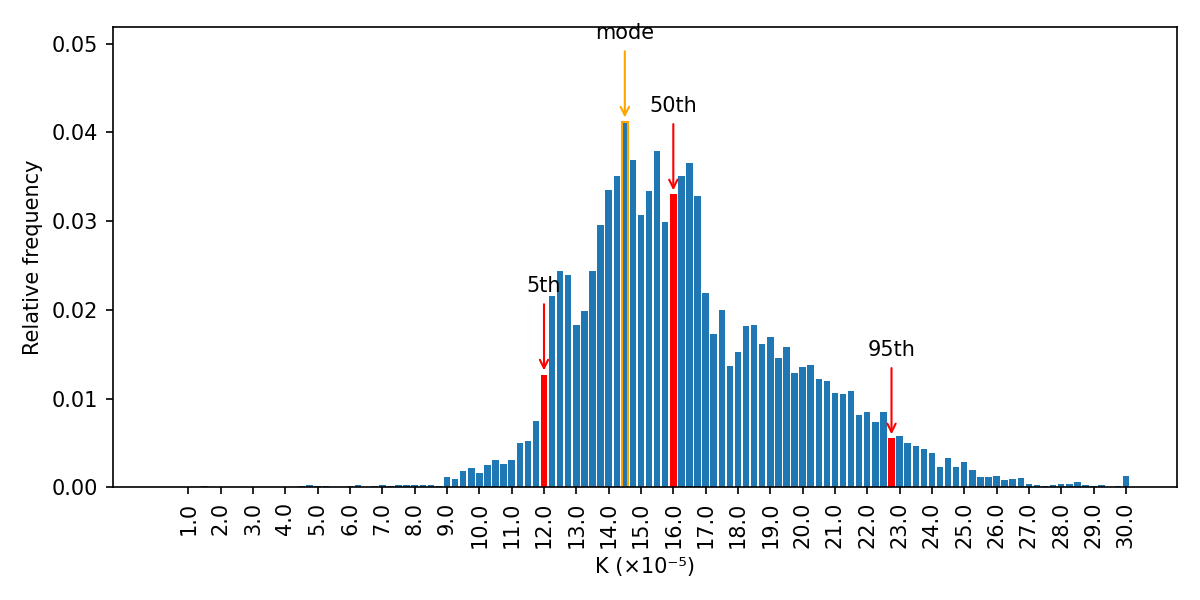
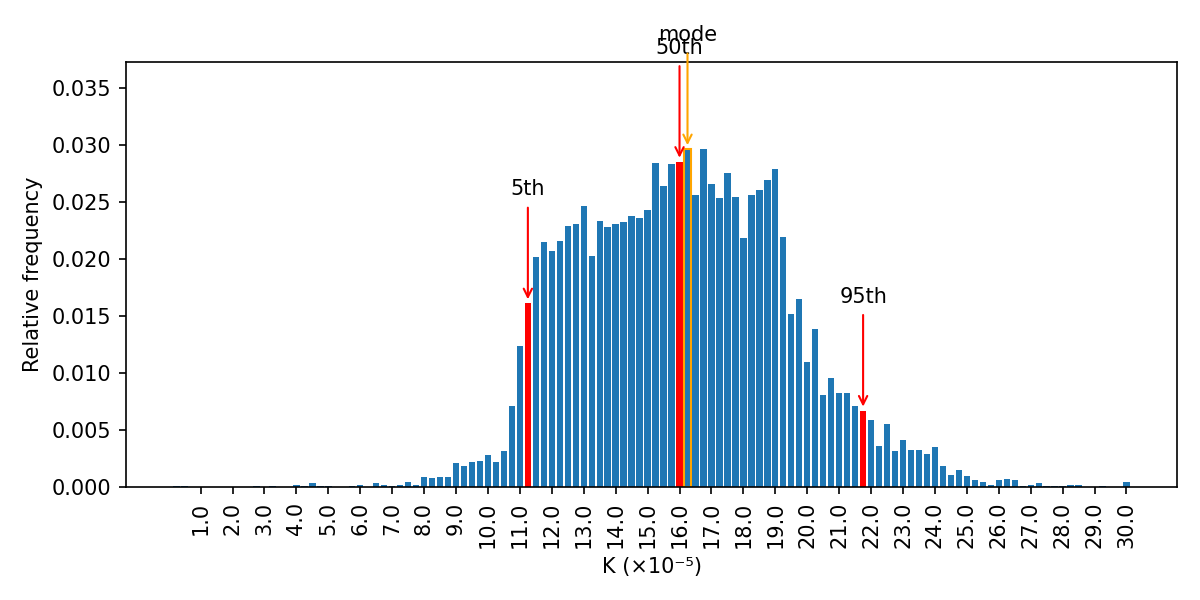
updated Kmode with dT correction

diff --git a/init/BMB_tuning_python/run_parameter_selection.py b/init/BMB_tuning_python/run_parameter_selection.py
@@ -242,12 +242,12 @@ for label, K in K_compare.items():
         'Diff (Gt/a)':     round(mod_total - obs_total),
     })
 df_ais = pd.DataFrame(rows, index=K_compare.keys())
-print('\nAIS-wide melt (Term 1 — Paolo/Adusumilli):')
+print('\nAIS-wide melt (Term 1 — Paolo/Davison/Adusumilli):')
 print(df_ais.to_string())
 
 out_ais = os.path.join(figure_dir, 'parameter_selection_AIS_summary.txt')
 with open(out_ais, 'w') as f:
-    f.write('AIS-wide melt (Term 1 — Paolo/Adusumilli)\n')
+    f.write('AIS-wide melt (Term 1 — Paolo/Davison/Adusumilli)\n')
     f.write(df_ais.to_string())
     f.write('\n')
 print(f'Saved: {out_ais}')
@@ -283,49 +283,88 @@ with open(out_t1, 'w') as f:
     f.write('\n')
 print(f'Saved: {out_t1}')
 
-# ---- validation figure
-fig, axes = plt.subplots(2, 2, figsize=(14, 9), constrained_layout=True)
+# ---- validation figure: one panel per term
+# band = K_5th..K_95th envelope, solid line = K_50th (median), dashed = K_mode
+band_color = '#2166AC'
+mode_color = 'orange'
 
-# [0,0] Term 1: modelled vs observed per basin
-ax = axes[0, 0]
-ax.errorbar(basins_x, t1_obs_mean, yerr=t1_obs_sigma,
-            fmt='o', color='black', capsize=4, label='Observed', zorder=5)
-for label, K in K_compare.items():
-    mod = t1_model.isel(p2=0).sel(p1=K, method='nearest')
-    ax.plot(basins_x, mod.values, label=f'K {label} ({K:.2e})', color=clrs[label])
-ax.set_xlabel('Basin')
-ax.set_ylabel('Melt rate (Gt/a)')
-ax.set_title('Term 1: basin-integrated melt vs Paolo/Adusumilli')
-ax.legend(fontsize=8)
 
-# [0,1] Term 1: difference (model − obs) per basin
-ax = axes[0, 1]
-ax.axhline(0, color='black', linewidth=0.8, linestyle='--')
-for label, K in K_compare.items():
-    mod = t1_model.isel(p2=0).sel(p1=K, method='nearest')
-    ax.plot(basins_x, mod.values - t1_obs_mean, label=f'K {label}', color=clrs[label])
-ax.set_xlabel('Basin')
-ax.set_ylabel('Model − observed (Gt/a)')
-ax.set_title('Term 1: bias per basin')
-ax.legend(fontsize=8)
+def _band_median_mode(model_da):
+    """K_5th/K_50th/K_95th/K_mode slices of a (..., p1, p2) DataArray."""
+    med  = model_da.isel(p2=0).sel(p1=K_50th, method='nearest').values
+    p05  = model_da.isel(p2=0).sel(p1=K_5th,  method='nearest').values
+    p95  = model_da.isel(p2=0).sel(p1=K_95th, method='nearest').values
+    mode = model_da.isel(p2=0).sel(p1=K_mode, method='nearest').values
+    return med, p05, p95, mode
 
-# [1,0] and [1,1] Term 3: warm−cold anomaly per basin for each ocean model
-for col, om in enumerate(['mathiot', 'naughten_ais_1']):
-    om_title = {'mathiot': 'Mathiot NEMO', 'naughten_ais_1': 'Naughten FESOM-ACCESS'}[om]
-    ax = axes[1, col]
-    obs3 = t3_obs_mean.sel(model=om)
-    sig3 = t3_obs_sigma.sel(model=om)
-    basins3 = obs3.basins.values
-    ax.errorbar(basins3, obs3.values, yerr=sig3.values,
-                fmt='o', color='black', capsize=4, label='Target', zorder=5)
-    for label, K in K_compare.items():
-        mod3 = t3_model.isel(p2=0).sel(p1=K, method='nearest').sel(model=om)
-        ax.plot(basins3, mod3.values, label=f'K {label}', color=clrs[label])
-    ax.axhline(0, color='grey', linewidth=0.5, linestyle='--')
-    ax.set_xlabel('Basin')
-    ax.set_ylabel('Warm − cold melt (kg m⁻² yr⁻¹)')
-    ax.set_title(f'Term 3: {om_title}')
+
+def _plot_term(ax, x, obs, sig, model_da, xlabel, ylabel, title):
+    med, p05, p95, mode = _band_median_mode(model_da)
+    ax.fill_between(x, p05, p95, color=band_color, alpha=0.3, label='5th–95th')
+    ax.plot(x, med, color=band_color, label='median')
+    ax.plot(x, mode, color=mode_color, linestyle='--', label='mode')
+    ax.errorbar(x, obs, yerr=sig, fmt='o', color='black', capsize=4,
+                label='Target', zorder=5)
+    ax.set_xlabel(xlabel)
+    ax.set_ylabel(ylabel)
+    ax.set_title(title)
     ax.legend(fontsize=8)
+
+
+fig, axes = plt.subplots(2, 2, figsize=(12, 10), constrained_layout=True)
+
+# [0,0] Term 1: basin-integrated melt
+_plot_term(
+    axes[0, 0], basins_x, t1_obs_mean, t1_obs_sigma, t1_model,
+    'Basin', 'Melt rate (Gt/a)',
+    'Term 1: basin-integrated melt vs Paolo/Davison/Adusumilli',
+)
+
+# [0,1] Term 2: buttressing-bin melt
+bins2 = t2_obs_mean.BFRN_bins.values
+_plot_term(
+    axes[0, 1], bins2, t2_obs_mean.values, t2_obs_sigma.values, t2_model,
+    'BFRN bin', 'Melt rate (Gt/a)',
+    'Term 2: buttressing-bin melt vs target',
+)
+
+# [1,0] Term 3: warm−cold anomaly, model+basin stacked (only Mathiot and
+# Naughten AIS-1 are weighted in the objective function, see t3_weights above)
+t3_sel = (
+    t3_model.sel(model=['mathiot', 'naughten_ais_1'])
+    .stack(modelbasin=('model', 'basins'))
+    .dropna(dim='modelbasin')
+)
+obs3 = t3_obs_mean.sel(model=['mathiot', 'naughten_ais_1']).stack(
+    modelbasin=('model', 'basins')).sel(modelbasin=t3_sel.modelbasin)
+sig3 = t3_obs_sigma.sel(model=['mathiot', 'naughten_ais_1']).stack(
+    modelbasin=('model', 'basins')).sel(modelbasin=t3_sel.modelbasin)
+x3 = np.arange(len(t3_sel.modelbasin))
+_plot_term(
+    axes[1, 0], x3, obs3.values, sig3.values, t3_sel,
+    None, 'Warm − cold melt (kg m⁻² yr⁻¹)',
+    'Term 3: warm − cold anomaly (Mathiot, Naughten)',
+)
+axes[1, 0].axhline(0, color='grey', linewidth=0.5, linestyle='--')
+axes[1, 0].set_xticks(x3)
+axes[1, 0].set_xticklabels(
+    [f'{m}-{b}' for m, b in t3_sel.modelbasin.values], rotation=90, fontsize=7)
+
+# [1,1] Term 4: PIG/Dotson observed years, region+year stacked
+t4_sel = t4_model.stack(region_year=('region', 'year')).dropna(dim='region_year')
+obs4 = t4_obs_mean.stack(region_year=('region', 'year')).sel(
+    region_year=t4_sel.region_year)
+sig4 = t4_obs_sigma.stack(region_year=('region', 'year')).sel(
+    region_year=t4_sel.region_year)
+x4 = np.arange(len(t4_sel.region_year))
+_plot_term(
+    axes[1, 1], x4, obs4.values, sig4.values, t4_sel,
+    None, 'Melt rate (Gt/a)',
+    'Term 4: PIG/Dotson observed-year melt vs target',
+)
+axes[1, 1].set_xticks(x4)
+axes[1, 1].set_xticklabels(
+    [f'{r}-{y}' for r, y in t4_sel.region_year.values], rotation=90, fontsize=8)
 
 out_val = os.path.join(figure_dir, 'parameter_selection_validation.png')
 fig.savefig(out_val, dpi=150)
@@ -340,4 +379,4 @@ savemat(K_mat, {
     'K_50th': K_50th,
     'K_95th': K_95th,
 })
-print(f'Saved: {K_mat}  (run meltMip_ensemble step 11 to write gamma0_local.mat)')
+print(f'Saved: {K_mat}  (run meltMip_ensemble step 16 to write gamma0_local.mat)')

diff --git a/init/scripts/calc_basin_mean_melt.m b/init/scripts/calc_basin_mean_melt.m
@@ -1,0 +1,53 @@
+function [melt_basin_kgm2a, unique_basins, total_bmb_Gtyr] = calc_basin_mean_melt(melt_v, md, basinid, rho_ice)
+% CALC_BASIN_MEAN_MELT  Area-weighted mean basal melt rate [kg m-2 a-1] and
+%   total basal mass balance [Gt yr-1] per IMBIE2 basin from per-vertex
+%   ISSM melt output.
+%
+%   Only floating elements (ocean_levelset < 0 for at least 2 of 3 vertices)
+%   are included.  Basins with no floating elements return 0.
+%
+%   Inputs:
+%     melt_v  : nVertices×1  BasalforcingsFloatingiceMeltingRate [m_ice/yr]
+%     md      : ISSM model   (needs mesh.x/y/elements, mask.ocean_levelset)
+%     basinid : nElements×1  IMBIE2 basin ID, MATLAB 1-based (element-level)
+%     rho_ice : scalar        ice density [kg m-3]
+%
+%   Outputs:
+%     melt_basin_kgm2a : nBasins×1  area-weighted mean melt [kg m-2 a-1]
+%     unique_basins    : nBasins×1  MATLAB basin IDs (1-based)
+%     total_bmb_Gtyr   : nBasins×1  total basal mass loss [Gt yr-1]
+
+    unique_basins = unique(basinid);
+    nBasins       = length(unique_basins);
+
+    % --- triangle element areas -------------------------------------------
+    x = md.mesh.x;  y = md.mesh.y;
+    e = md.mesh.elements;   % nElements × 3
+    x1=x(e(:,1)); y1=y(e(:,1));
+    x2=x(e(:,2)); y2=y(e(:,2));
+    x3=x(e(:,3)); y3=y(e(:,3));
+    elem_area = 0.5 * abs(x1.*(y2-y3) + x2.*(y3-y1) + x3.*(y1-y2));
+
+    % --- floating mask (element level: 2 of 3 vertices floating) ----------
+    float_v   = md.mask.ocean_levelset < 0;
+    float_e   = (float_v(e(:,1)) + float_v(e(:,2)) + float_v(e(:,3))) >= 2;
+
+    % --- element-mean melt from vertex values [m_ice/yr] ------------------
+    melt_e = (melt_v(e(:,1)) + melt_v(e(:,2)) + melt_v(e(:,3))) / 3;
+
+    % --- per-basin stats --------------------------------------------------
+    melt_basin_kgm2a = zeros(nBasins, 1);
+    total_bmb_Gtyr   = zeros(nBasins, 1);
+    for b = 1:nBasins
+        basin_b   = unique_basins(b);
+        elem_mask = (basinid == basin_b) & float_e;
+        if any(elem_mask)
+            A_b = elem_area(elem_mask);
+            m_b = melt_e(elem_mask);
+            flux = sum(m_b .* A_b) * rho_ice;   % kg/yr
+            melt_basin_kgm2a(b) = flux / sum(A_b);   % kg m-2 a-1
+            total_bmb_Gtyr(b)   = flux / 1e12;        % Gt yr-1
+        end
+        % basins with no floating elements stay at 0
+    end
+end

diff --git a/init/scripts/eval_melt_basin.m b/init/scripts/eval_melt_basin.m
@@ -1,0 +1,25 @@
+function melt_kgm2a = eval_melt_basin(TF_base_e, area_e, dT, gamma0, rho_ice)
+% EVAL_MELT_BASIN  Analytically compute area-weighted mean basal melt rate
+%   [kg m-2 a-1] for a set of floating ice elements, given their effective
+%   base thermal forcing (back-calculated from an ISSM dT=+2 run) and a
+%   scalar dT correction to test.
+%
+%   Uses the ISMIP6 local quadratic formula:
+%       melt [m_ice/yr] = gamma0 [m/yr/°C²] * max(0, TF_base + dT)^2
+%
+%   Inputs:
+%     TF_base_e : nElem×1  effective base TF per element [°C]
+%                 (back-calculated as sqrt(melt_at_dT2/gamma0) - 2)
+%     area_e    : nElem×1  triangle element areas [m²]
+%     dT        : scalar   temperature correction to evaluate [°C]
+%     gamma0    : scalar   heat-exchange coefficient [m/yr/°C²]
+%     rho_ice   : scalar   ice density [kg/m³]
+%
+%   Output:
+%     melt_kgm2a : scalar  area-weighted mean melt rate [kg m-2 a-1]
+%                  (positive = melting)
+
+    TF_eff     = TF_base_e + dT;                    % [°C], nElem×1
+    melt_myr   = gamma0 * max(0, TF_eff).^2;        % [m_ice/yr], nElem×1
+    melt_kgm2a = sum(melt_myr .* area_e) / sum(area_e) * rho_ice;
+end
